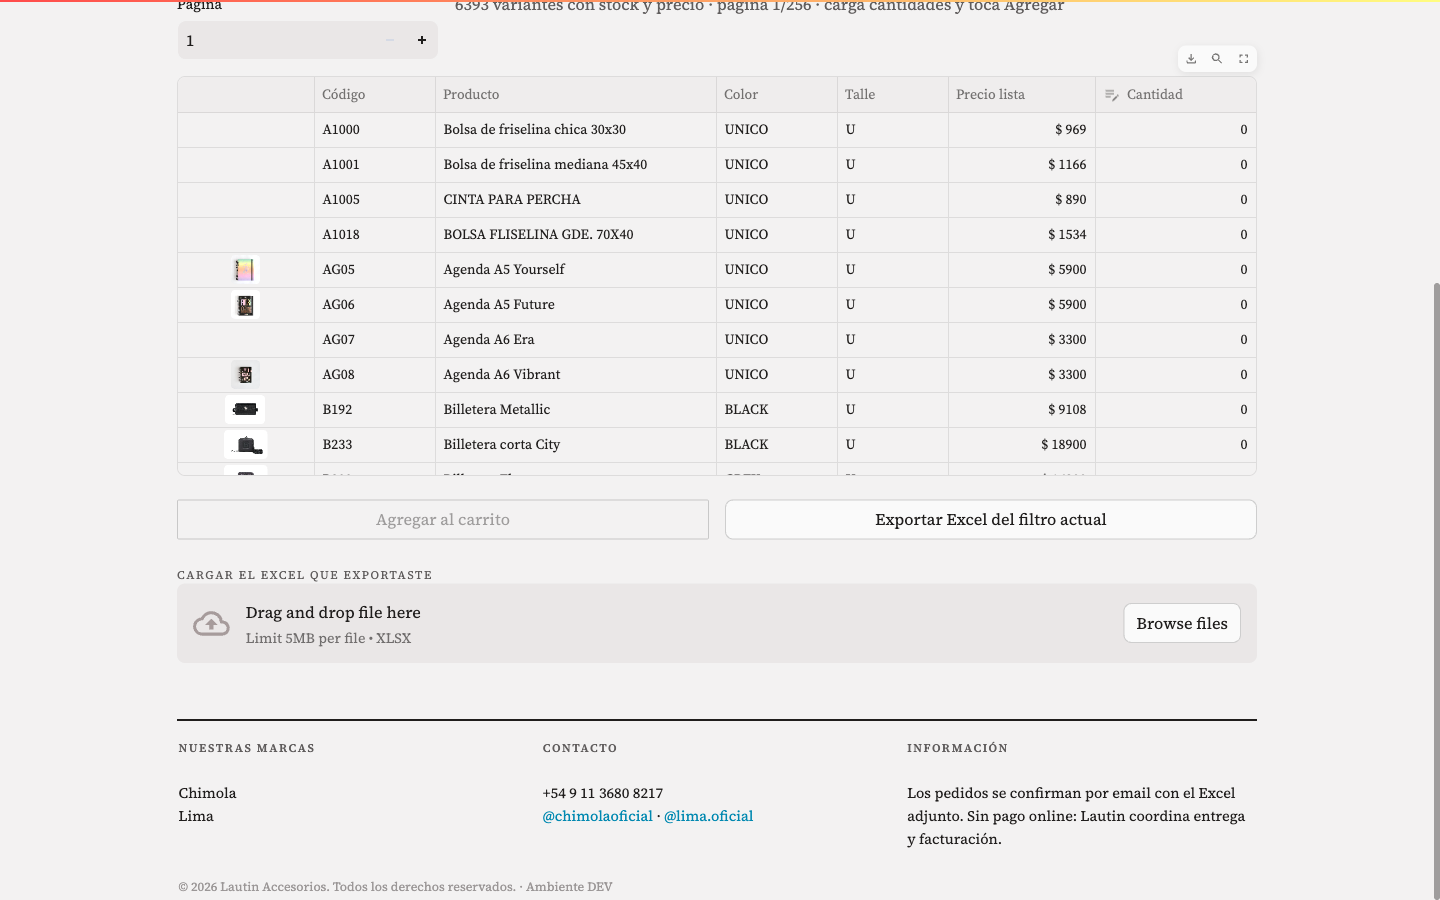
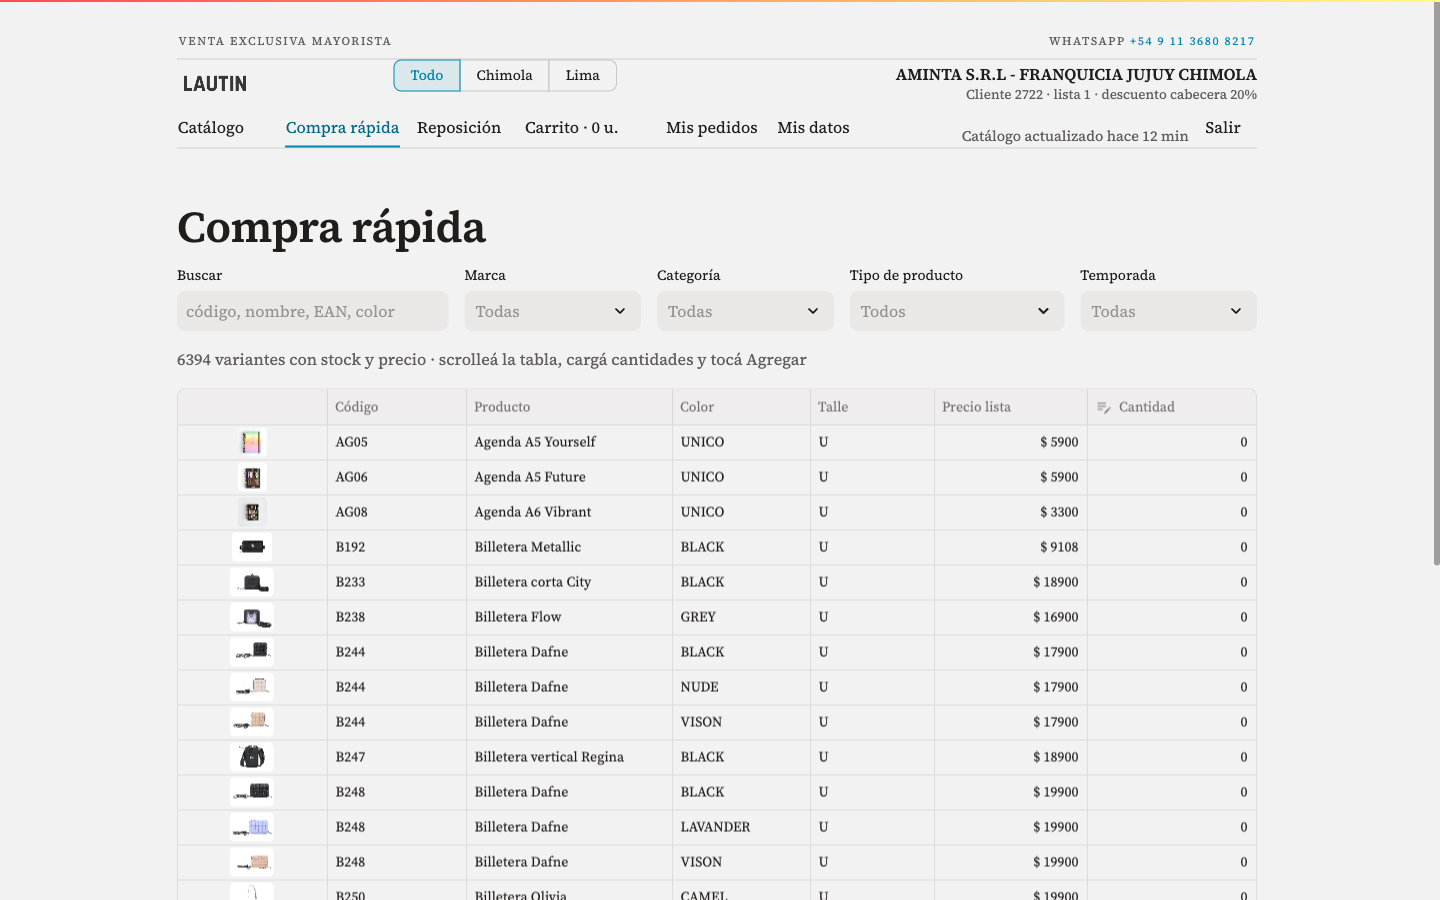
Presentación v3: narrativa de uso (formas de comprar → admin → comunicaciones)
Reestructura pedida por el usuario: 13 slides — Cómo se compra (catálogo
con crossfade, grilla color×talle, compra rápida vista única, el circuito
Excel con una imagen del XLSX REAL con miniaturas vía QuickLook,
reposición+Odoo, autogestión del cliente), Qué maneja el equipo (producto
editable, cliente editable, pedidos modificables, historia del cliente) y
Comunicaciones (email de modificación renderizado: diff + Excel adjunto
con miniaturas y links). Capturas nuevas de DEV rev 00064.

Claude-Session: https://claude.ai/code/session_01L96DzHR7EepPvCdgaQbg37

diff --git a/presentacion/index.html b/presentacion/index.html
@@ -17,13 +17,11 @@
     font-family: "Source Serif 4", Georgia, "Times New Roman", serif; }
   .deck { position: relative; width: 100%; height: 100%; }
 
-  /* ---------- slides ---------- */
   .slide { position: absolute; inset: 0; display: flex; align-items: center; justify-content: center;
     padding: 4.5vh 5vw; opacity: 0; pointer-events: none; transform: translateY(18px);
     transition: opacity .55s ease, transform .55s ease; }
   .slide.active { opacity: 1; pointer-events: auto; transform: none; }
 
-  /* revelado escalonado del contenido del slide activo */
   .reveal { opacity: 0; transform: translateY(16px); transition: opacity .6s ease, transform .6s ease; }
   .active .reveal { opacity: 1; transform: none; }
   .active .reveal:nth-child(1) { transition-delay: .10s; }
@@ -39,7 +37,6 @@
   h2 { font-size: clamp(28px, 3.3vw, 46px); line-height: 1.08; font-weight: 700; margin-bottom: 18px; }
   .sub { font-size: clamp(16px, 1.5vw, 21px); color: var(--muted); margin-top: 18px; max-width: 34ch; }
 
-  /* layout funcionalidad: texto izquierda, captura derecha */
   .split { display: grid; grid-template-columns: minmax(320px, 30fr) 46fr; gap: 4.5vw;
     align-items: center; width: 100%; max-width: 1750px; }
   ul.puntos { list-style: none; margin-top: 6px; }
@@ -54,7 +51,6 @@
     font-weight: 700; color: #fff; background: var(--tinta); padding: 4px 10px; border-radius: 2px;
     margin-left: 10px; vertical-align: middle; }
 
-  /* marco tipo navegador para las capturas */
   .browser { background: #fff; border: 1px solid var(--borde); border-radius: 4px; overflow: hidden;
     box-shadow: 0 22px 60px rgba(32, 30, 29, .16); }
   .active .browser { animation: asoma .8s ease .15s both; }
@@ -67,7 +63,6 @@
     font-family: ui-monospace, Menlo, monospace; letter-spacing: .02em; }
   .browser img { display: block; width: 100%; height: auto; }
 
-  /* crossfade apagado/encendido en el slide de catálogo */
   .xfade { position: relative; }
   .xfade img + img { position: absolute; inset: 0; opacity: 0; animation: prende 7s ease-in-out infinite; }
   @keyframes prende { 0%, 45% { opacity: 0; } 50%, 95% { opacity: 1; } 100% { opacity: 0; } }
@@ -75,7 +70,6 @@
     text-transform: uppercase; font-weight: 700; background: var(--cian); color: #fff;
     padding: 5px 11px; border-radius: 2px; opacity: 0; animation: prende 7s ease-in-out infinite; }
 
-  /* portada y cierre */
   .centro { text-align: center; flex-direction: column; }
   .logo { height: 58px; margin-bottom: 34px; }
   .active .logo { animation: logoIn 1s ease both; }
@@ -88,7 +82,6 @@
     color: var(--cian-oscuro); background: var(--cian-tinte); padding: 8px 16px; border-radius: 2px;
     display: inline-block; margin-top: 10px; }
 
-  /* cromo del deck */
   .progreso { position: fixed; top: 0; left: 0; height: 3px; background: var(--cian); width: 0;
     transition: width .45s ease; z-index: 10; }
   .contador { position: fixed; right: 22px; bottom: 16px; font-size: 13px; color: var(--muted);
@@ -115,21 +108,21 @@
     <div class="kicker reveal">Chimola · Lima — venta exclusiva mayorista</div>
     <h1 class="reveal">Sitio Mayorista B2B</h1>
     <div class="linea reveal"></div>
-    <p class="sub reveal" style="max-width:46ch; margin:0 auto">Catálogo con fotos y stock real, pedidos
-      en tres clicks y administración completa — hecho a medida sobre los datos de Aleph.</p>
+    <p class="sub reveal" style="max-width:46ch; margin:0 auto">Cuatro formas de comprar, un admin que
+      edita todo, y comunicaciones que siempre llegan con el Excel listo.</p>
     <div class="hint">→ o click para avanzar &nbsp;·&nbsp; F pantalla completa</div>
   </section>
 
-  <!-- 2 · Catálogo -->
+  <!-- 2 · Forma 1: catálogo -->
   <section class="slide"><div class="split">
     <div>
-      <div class="kicker reveal">Para clientes y franquicias</div>
-      <h2 class="reveal">Catálogo con fotos y stock real</h2>
+      <div class="kicker reveal">Cómo se compra · 1 de 4</div>
+      <h2 class="reveal">Mirando el catálogo</h2>
       <ul class="puntos">
-        <li class="reveal">Solo variantes <b>con stock físico en Ezeiza</b> — lo que se ve, se puede pedir.</li>
-        <li class="reveal">Filtros por <b>categoría, tipo, marca, temporada, color y talle</b> + búsqueda por código, nombre o EAN.</li>
-        <li class="reveal">Destacados primero y scroll continuo, sin páginas.</li>
-        <li class="reveal">Switch <b>“Encender el sitio”</b>: cada producto muestra la foto de su color más claro.</li>
+        <li class="reveal">Fotos y <b>stock real de Ezeiza</b>: lo que se ve, se puede pedir.</li>
+        <li class="reveal">Filtros que acompañan el scroll, búsqueda y <b>scroll infinito</b>.</li>
+        <li class="reveal"><b>«Cargar cantidades»</b> abre la compra ahí mismo, sin salir de la vista.</li>
+        <li class="reveal">Y el switch <b>“Encender el sitio”</b>: todo el catálogo en colores claros.</li>
       </ul>
     </div>
     <div class="browser reveal"><div class="bar"><i></i><i></i><i></i><span>mayorista.lautin — Catálogo</span></div>
@@ -141,29 +134,13 @@
     </div>
   </div></section>
 
-  <!-- 3 · Compra rápida desde el catálogo -->
+  <!-- 3 · La grilla -->
   <section class="slide"><div class="split">
     <div>
-      <div class="kicker reveal">Para clientes y franquicias</div>
-      <h2 class="reveal">Comprá sin salir del catálogo</h2>
-      <ul class="puntos">
-        <li class="reveal"><b>“Cargar cantidades”</b> abre el panel de compra ahí mismo, en la vista de la categoría.</li>
-        <li class="reveal">Cantidades por variante <b>sin perder los filtros ni el scroll</b>.</li>
-        <li class="reveal">Total en vivo y directo al carrito.</li>
-        <li class="reveal">Ideal para recorrer una categoría entera cargando a medida que mirás.</li>
-      </ul>
-    </div>
-    <div class="browser reveal"><div class="bar"><i></i><i></i><i></i><span>mayorista.lautin — Catálogo</span></div>
-      <img src="img/02b_panel_inline.png" alt="Panel de compra en el catálogo"></div>
-  </div></section>
-
-  <!-- 4 · Matriz color × talle -->
-  <section class="slide"><div class="split">
-    <div>
-      <div class="kicker reveal">Para clientes y franquicias</div>
+      <div class="kicker reveal">Cómo se compra · 1 de 4</div>
       <h2 class="reveal">Talles y colores: la grilla</h2>
       <ul class="puntos">
-        <li class="reveal">Cuando el producto tiene <b>talle y color</b>, la carga es una <b>matriz</b>: una fila por color, una columna por talle.</li>
+        <li class="reveal">Con <b>talle y color</b>, la carga es una <b>matriz</b>: una fila por color, una columna por talle.</li>
         <li class="reveal">Todas las variantes del producto <b>de una sola vez</b>.</li>
         <li class="reveal">Respeta la <b>unidad de bulto</b> y avisa si se pide de más — sin revelar el stock.</li>
         <li class="reveal">Arriba, la galería: las miniaturas cambian el visor por color.</li>
@@ -173,103 +150,151 @@
       <img src="img/02_matriz.png" alt="Matriz color por talle"></div>
   </div></section>
 
-  <!-- 5 · Carrito: precios del cliente + confirmación -->
+  <!-- 4 · Forma 2: compra rápida -->
   <section class="slide"><div class="split">
     <div>
-      <div class="kicker reveal">Para clientes y franquicias</div>
-      <h2 class="reveal">Cada cliente ve sus precios</h2>
-      <ul class="puntos">
-        <li class="reveal">Cada cuenta está atada a un cliente de Aleph: <b>su lista de precios</b> y su <b>descuento de cabecera</b>, como en la NP.</li>
-        <li class="reveal">IVA informativo — las listas mayoristas son sin IVA.</li>
-        <li class="reveal">El stock <b>nunca se muestra</b>; el sitio valida contra BigQuery al confirmar (nada de sobreventa).</li>
-        <li class="reveal">Confirmar genera el <b>Excel numerado</b> del pedido y avisa a Lautin.</li>
-      </ul>
-    </div>
-    <div class="browser reveal"><div class="bar"><i></i><i></i><i></i><span>mayorista.lautin — Carrito</span></div>
-      <img src="img/03_carrito.png" alt="Carrito con totales"></div>
-  </div></section>
-
-  <!-- 6 · Compra rápida -->
-  <section class="slide"><div class="split">
-    <div>
-      <div class="kicker reveal">Para clientes y franquicias</div>
+      <div class="kicker reveal">Cómo se compra · 2 de 4</div>
       <h2 class="reveal">Compra rápida</h2>
       <ul class="puntos">
-        <li class="reveal">Tabla con miniaturas y filtros: <b>cantidades directo sobre la lista</b>.</li>
-        <li class="reveal"><b>Pegar códigos</b> desde Excel (SKU o EAN + cantidad) y listo.</li>
-        <li class="reveal"><b>Exportar Excel del filtro actual</b>, completarlo offline y volver a subirlo.</li>
-        <li class="reveal">Reconciliación línea por línea: agregadas, ajustadas, sin reconocer.</li>
+        <li class="reveal">Una sola vista: <b>todo el catálogo en una tabla</b> con miniaturas.</li>
+        <li class="reveal">Cinco filtros que se cruzan solos (marca, categoría, tipo, temporada + búsqueda).</li>
+        <li class="reveal"><b>Cantidades directo sobre la lista</b> y un click al carrito.</li>
+        <li class="reveal">Las variantes con foto van primero.</li>
       </ul>
     </div>
     <div class="browser reveal"><div class="bar"><i></i><i></i><i></i><span>mayorista.lautin — Compra rápida</span></div>
       <img src="img/05_compra_rapida.png" alt="Compra rápida"></div>
   </div></section>
 
-  <!-- 7 · Reposición -->
+  <!-- 5 · Forma 3: el circuito Excel -->
   <section class="slide"><div class="split">
     <div>
-      <div class="kicker reveal">Solo franquicias</div>
+      <div class="kicker reveal">Cómo se compra · 3 de 4</div>
+      <h2 class="reveal">El circuito Excel</h2>
+      <ul class="puntos">
+        <li class="reveal"><b>Exportás el filtro</b>: miniaturas, link a cada foto, precios de TU lista y totales con tu descuento.</li>
+        <li class="reveal">Todo bloqueado salvo <b>Cantidad</b> (resaltada): imposible romperlo.</li>
+        <li class="reveal">Lo completás offline, con quien quieras, y <b>lo subís tal cual</b>.</li>
+        <li class="reveal">El sitio reconcilia línea por línea: agregadas, ajustadas, sin reconocer.</li>
+      </ul>
+    </div>
+    <div class="browser reveal"><div class="bar"><i></i><i></i><i></i><span>compra_rapida.xlsx — Excel</span></div>
+      <img src="img/04_excel.png" alt="Excel exportado con miniaturas"></div>
+  </div></section>
+
+  <!-- 6 · Forma 4: reposición (franquicias) -->
+  <section class="slide"><div class="split">
+    <div>
+      <div class="kicker reveal">Cómo se compra · 4 de 4 — franquicias</div>
       <h2 class="reveal">Reposición sugerida</h2>
       <ul class="puntos">
-        <li class="reveal">Cruza <b>lo que vendió el punto de venta</b> (últimos 30 días) con lo disponible en Ezeiza.</li>
-        <li class="reveal">Selector de <b>días a cubrir: 7 / 14 / 21 / 30</b> — recalcula al instante.</li>
-        <li class="reveal">Filtros por categoría y temporada; lo más urgente primero.</li>
-        <li class="reveal">Cantidades sugeridas editables y <b>un click al carrito</b>.</li>
+        <li class="reveal">Cruza <b>lo que vendió tu punto de venta</b> con lo disponible en Ezeiza.</li>
+        <li class="reveal">Días a cubrir (7/14/21/30), filtros y <b>cantidades sugeridas editables</b>.</li>
+        <li class="reveal">Un click al carrito — o el mismo circuito Excel, ya precargado.</li>
+        <li class="reveal">Y el pedido sale en <b>formato Odoo</b>, listo para importar en tu sistema.</li>
       </ul>
     </div>
     <div class="browser reveal"><div class="bar"><i></i><i></i><i></i><span>mayorista.lautin — Reposición</span></div>
       <img src="img/06_reposicion.png" alt="Reposición sugerida"></div>
   </div></section>
 
-  <!-- 8 · El cliente ve todo lo que pidió -->
+  <!-- 7 · Autogestión -->
   <section class="slide"><div class="split">
     <div>
-      <div class="kicker reveal">Para clientes y franquicias</div>
-      <h2 class="reveal">El cliente ve todo lo que pidió</h2>
+      <div class="kicker reveal">Cómo se compra · el día después</div>
+      <h2 class="reveal">El cliente se maneja solo</h2>
       <ul class="puntos">
-        <li class="reveal">En su portal: <b>historial completo</b> con estado de cada pedido (confirmado / procesado / cancelado).</li>
-        <li class="reveal">Detalle línea por línea: <b>productos, cantidades, precios y totales</b>.</li>
-        <li class="reveal"><b>Repetir pedido</b>, re-descargar el Excel, cancelar mientras Lautin no lo procesó.</li>
-        <li class="reveal">Franquicias: <b>export formato Odoo</b> (dos hojas listas para la importación masiva).</li>
+        <li class="reveal"><b>Mis pedidos</b>: historial con estados, detalle completo, repetir, re-descargar el Excel.</li>
+        <li class="reveal">Puede <b>cancelar</b> mientras Lautin no lo procesó — con aviso automático.</li>
+        <li class="reveal"><b>Mis datos</b>: contacto, teléfono y cambio de password, sin llamar a nadie.</li>
+        <li class="reveal">Avisos honestos: cuánto falta para el mínimo, qué se ajustó y por qué.</li>
       </ul>
     </div>
     <div class="browser reveal"><div class="bar"><i></i><i></i><i></i><span>mayorista.lautin — Mis pedidos</span></div>
       <img src="img/07_pedidos.png" alt="Mis pedidos"></div>
   </div></section>
 
-  <!-- 9 · Admin: así se edita un producto -->
+  <!-- 8 · Admin: producto -->
   <section class="slide"><div class="split">
     <div>
-      <div class="kicker reveal">Para el equipo<span class="badge">Admin</span></div>
-      <h2 class="reveal">Así se edita un producto</h2>
+      <div class="kicker reveal">Qué maneja el equipo<span class="badge">Admin</span></div>
+      <h2 class="reveal">Todo editable: el producto</h2>
       <ul class="puntos">
-        <li class="reveal">Todo lo de Aleph se puede <b>pisar cuando haga falta</b>: nombre, descripción, precios por lista, U.B.</li>
-        <li class="reveal"><b>Variantes en tabla editable</b>: stock manual, ocultar u ajustar precio por variante.</li>
-        <li class="reveal"><b>Fotos por color</b>: asignación automática + corrección manual.</li>
-        <li class="reveal">Publicar / ocultar / destacar — solo o <b>en lote</b> por tipo, temporada o categoría.</li>
+        <li class="reveal"><b>Pisar lo de Aleph</b> cuando haga falta: nombre, descripción, precios por lista, U.B.</li>
+        <li class="reveal">Variantes una por una: <b>stock manual, ocultar, precio</b>.</li>
+        <li class="reveal"><b>Fotos por color</b> + elegir la <b>portada</b> del catálogo.</li>
+        <li class="reveal">Publicar / ocultar / destacar — solo o en lote por tipo, temporada o categoría.</li>
       </ul>
     </div>
     <div class="browser reveal"><div class="bar"><i></i><i></i><i></i><span>mayorista.lautin — Administración</span></div>
-      <img src="img/08_admin_editor.png" alt="Editor de producto del admin"></div>
+      <img src="img/08_admin_editor.png" alt="Editor de producto"></div>
   </div></section>
 
-  <!-- 10 · Admin: toda la info del cliente -->
+  <!-- 9 · Admin: cliente -->
   <section class="slide"><div class="split">
     <div>
-      <div class="kicker reveal">Para el equipo<span class="badge">Admin</span></div>
-      <h2 class="reveal">Todo el cliente, en una ficha</h2>
+      <div class="kicker reveal">Qué maneja el equipo<span class="badge">Admin</span></div>
+      <h2 class="reveal">Todo editable: el cliente</h2>
       <ul class="puntos">
-        <li class="reveal">Datos de Aleph + ajustes del sitio: <b>descuento, lista de precios, contacto, CUIT, nombre en Odoo</b>.</li>
-        <li class="reveal"><b>Sus pedidos y estados</b>, con el detalle de cada uno.</li>
-        <li class="reveal">Usuarios de acceso: alta, <b>reset de password</b>, activar/desactivar.</li>
-        <li class="reveal"><b>Import del historial de Aleph</b> (sin duplicar) y reposición sugerida de su punto de venta.</li>
+        <li class="reveal"><b>Rol y cliente de Aleph</b> de cada usuario de acceso.</li>
+        <li class="reveal">Overrides de <b>descuento y lista de precios</b> — sin tocar el ERP.</li>
+        <li class="reveal">Contacto, CUIT y <b>nombre en Odoo</b> para el export de franquicias.</li>
+        <li class="reveal">Alta de usuarios, <b>reset de password</b>, activar/desactivar.</li>
       </ul>
     </div>
     <div class="browser reveal"><div class="bar"><i></i><i></i><i></i><span>mayorista.lautin — Administración</span></div>
-      <img src="img/10_admin_cliente.png" alt="Ficha de cliente del admin"></div>
+      <img src="img/09_cliente_edit.png" alt="Edición de cliente"></div>
   </div></section>
 
-  <!-- 11 · Cierre -->
+  <!-- 10 · Admin: pedidos modificables -->
+  <section class="slide"><div class="split">
+    <div>
+      <div class="kicker reveal">Qué maneja el equipo<span class="badge">Admin</span></div>
+      <h2 class="reveal">Los pedidos también se tocan</h2>
+      <ul class="puntos">
+        <li class="reveal"><b>Modificar un pedido confirmado</b>: cambiar cantidades o quitar líneas.</li>
+        <li class="reveal">Recalcula totales, <b>regenera el Excel</b> y le avisa al cliente qué cambió.</li>
+        <li class="reveal">Estados con un click (procesado / cancelado) — y una vez procesado, <b>inmutable</b>.</li>
+        <li class="reveal">Cada cambio queda en el historial del pedido, con quién y cuándo.</li>
+      </ul>
+    </div>
+    <div class="browser reveal"><div class="bar"><i></i><i></i><i></i><span>mayorista.lautin — Administración</span></div>
+      <img src="img/10b_modificar.png" alt="Modificar pedido"></div>
+  </div></section>
+
+  <!-- 11 · Admin: historia del cliente -->
+  <section class="slide"><div class="split">
+    <div>
+      <div class="kicker reveal">Qué maneja el equipo<span class="badge">Admin</span></div>
+      <h2 class="reveal">La historia de cada cliente</h2>
+      <ul class="puntos">
+        <li class="reveal">Métricas al toque: <b>total histórico, ticket promedio, último pedido</b>.</li>
+        <li class="reveal">Todos sus pedidos con estados, y el <b>top de productos</b> que compra.</li>
+        <li class="reveal"><b>Import del historial de Aleph</b>: los pedidos previos al sitio, sin duplicar.</li>
+        <li class="reveal">Y su reposición sugerida, para llegar a la llamada con la propuesta armada.</li>
+      </ul>
+    </div>
+    <div class="browser reveal"><div class="bar"><i></i><i></i><i></i><span>mayorista.lautin — Administración</span></div>
+      <img src="img/10_admin_cliente.png" alt="Ficha del cliente"></div>
+  </div></section>
+
+  <!-- 12 · Comunicaciones -->
+  <section class="slide"><div class="split">
+    <div>
+      <div class="kicker reveal">Comunicaciones</div>
+      <h2 class="reveal">Siempre con el Excel adjunto</h2>
+      <ul class="puntos">
+        <li class="reveal">Cada evento avisa solo: <b>confirmación, modificación, procesado, cancelación</b>.</li>
+        <li class="reveal">El Excel va SIEMPRE adjunto — <b>con miniaturas y link a las fotos</b> de cada línea.</li>
+        <li class="reveal">Si Lautin modifica, el mail dice <b>exactamente qué cambió y qué se quitó</b>.</li>
+        <li class="reveal">Los textos se editan desde Config, con vista previa y envío de prueba.</li>
+      </ul>
+    </div>
+    <div class="browser reveal"><div class="bar"><i></i><i></i><i></i><span>Email — pedido modificado</span></div>
+      <img src="img/11_email_mod.png" alt="Email de modificación"></div>
+  </div></section>
+
+  <!-- 13 · Cierre -->
   <section class="slide centro">
     <img class="logo" src="img/logo_lautin.png" alt="Lautin">
     <div class="kicker reveal">Probalo hoy</div>
